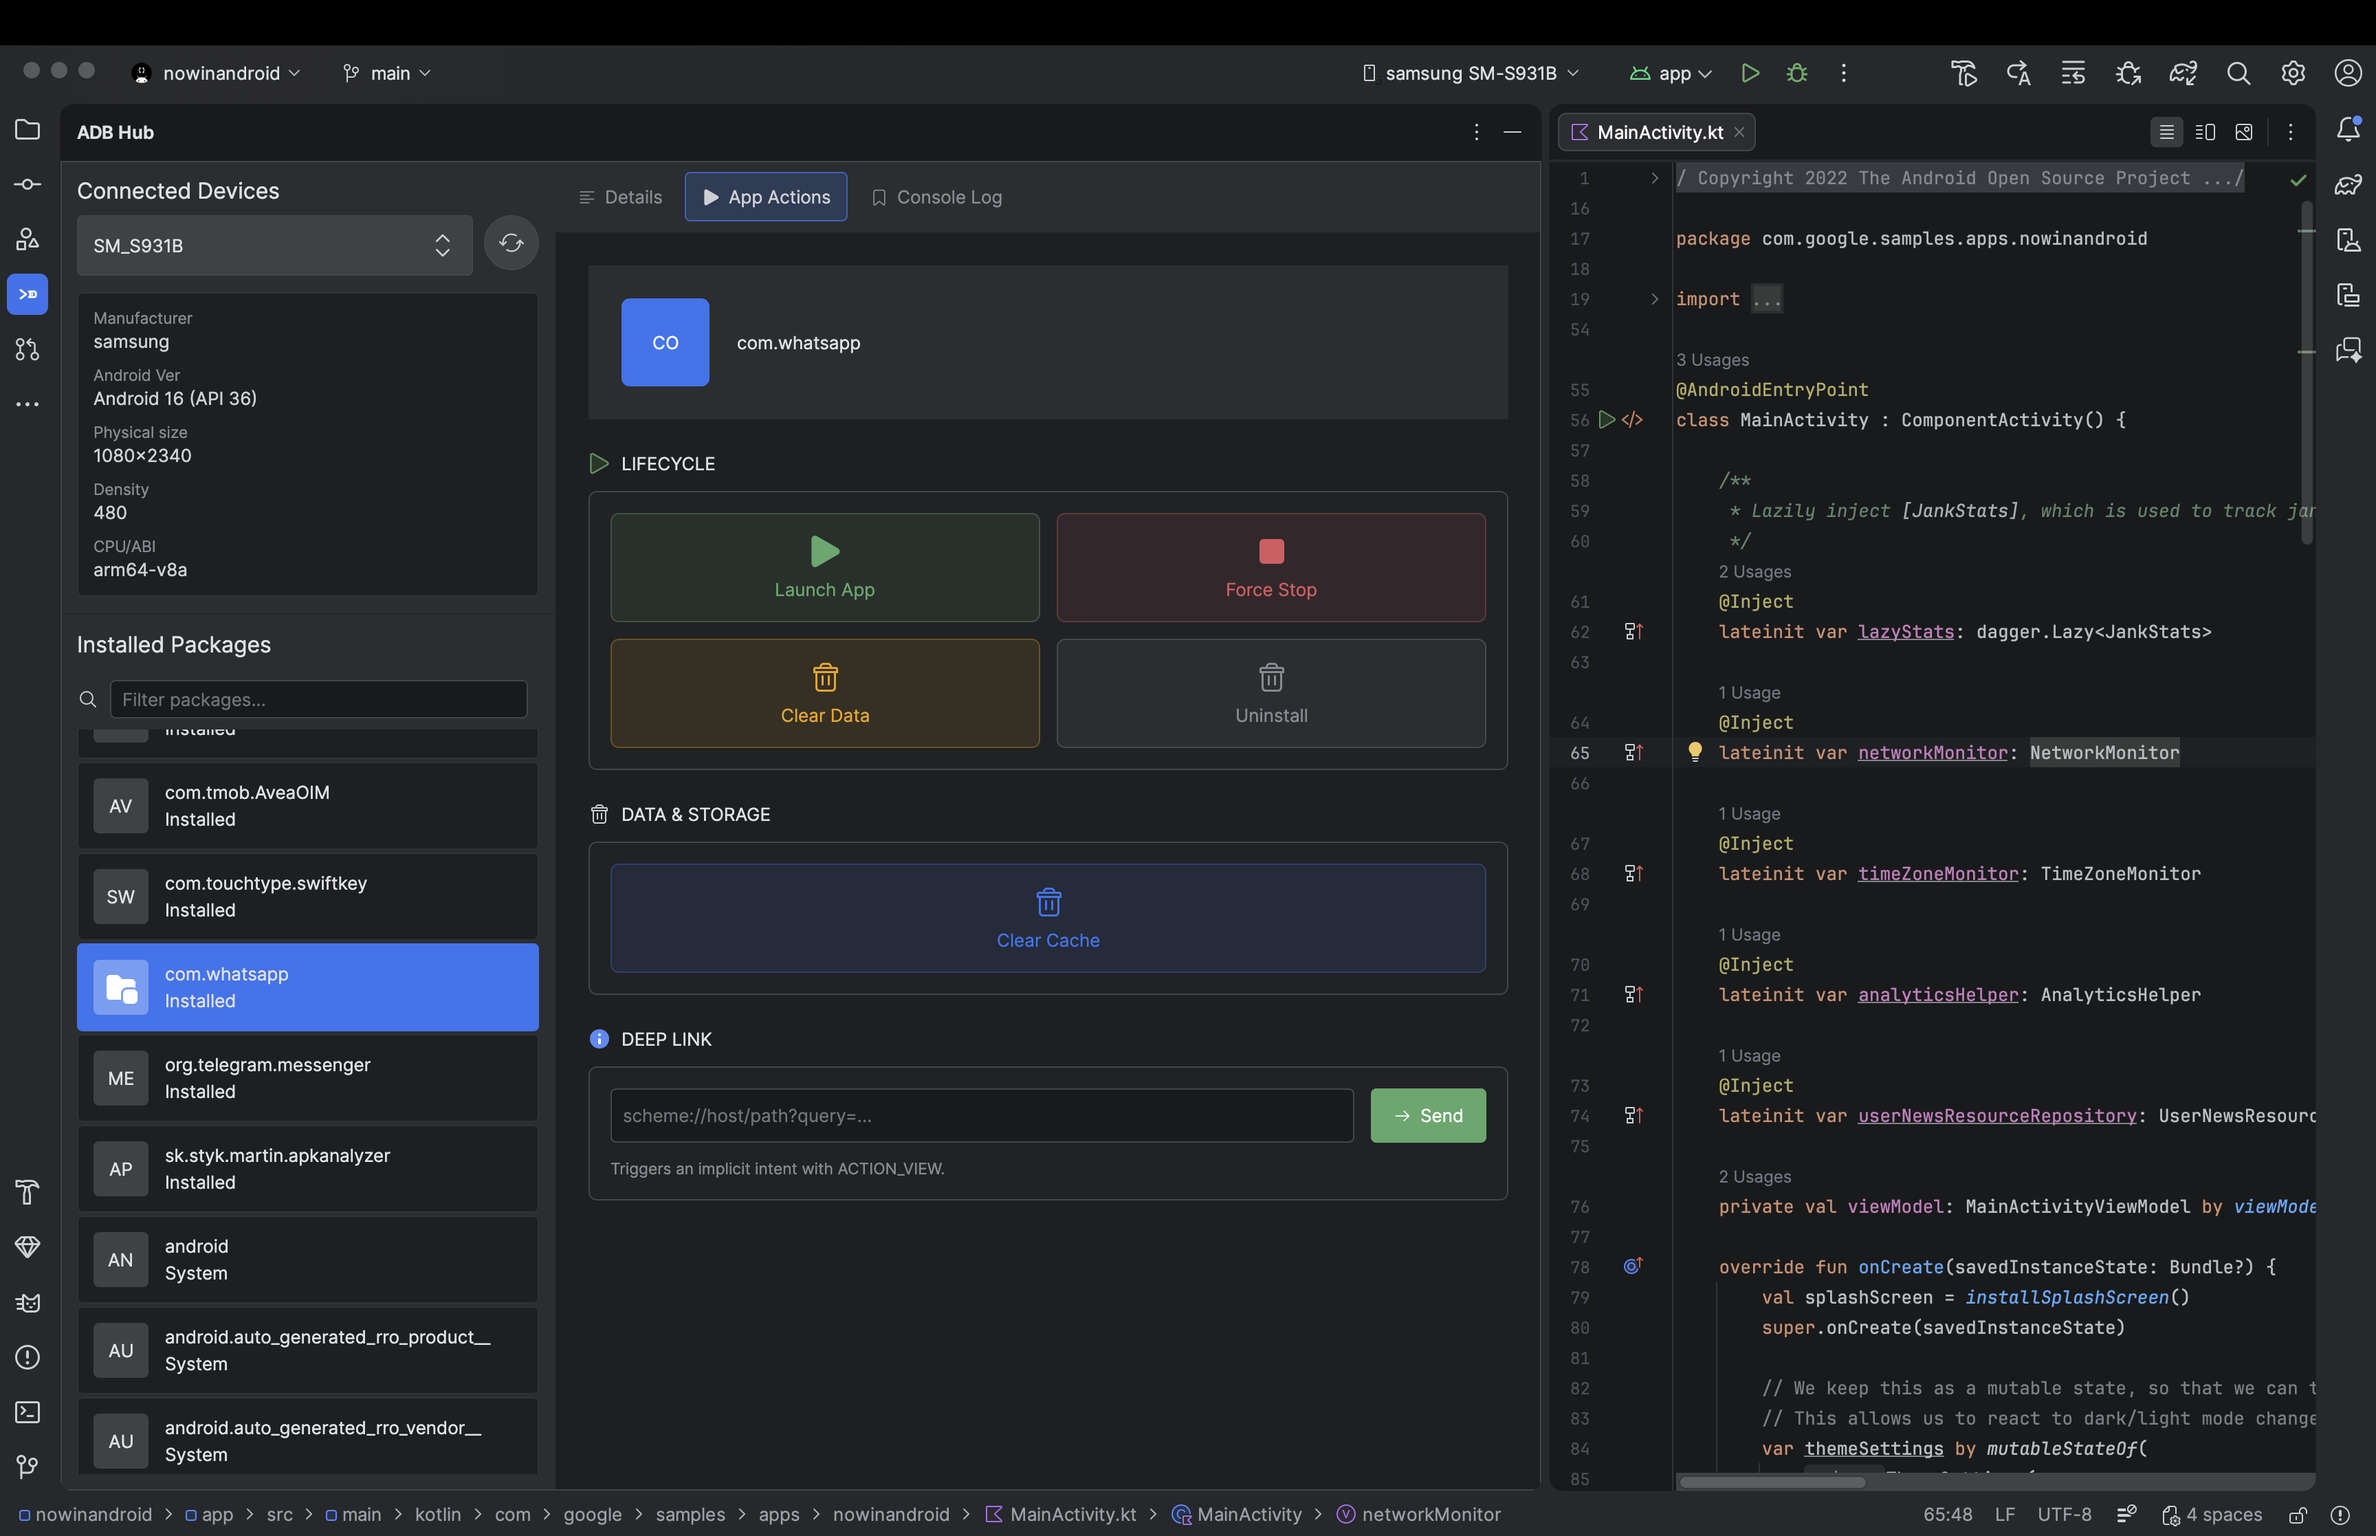
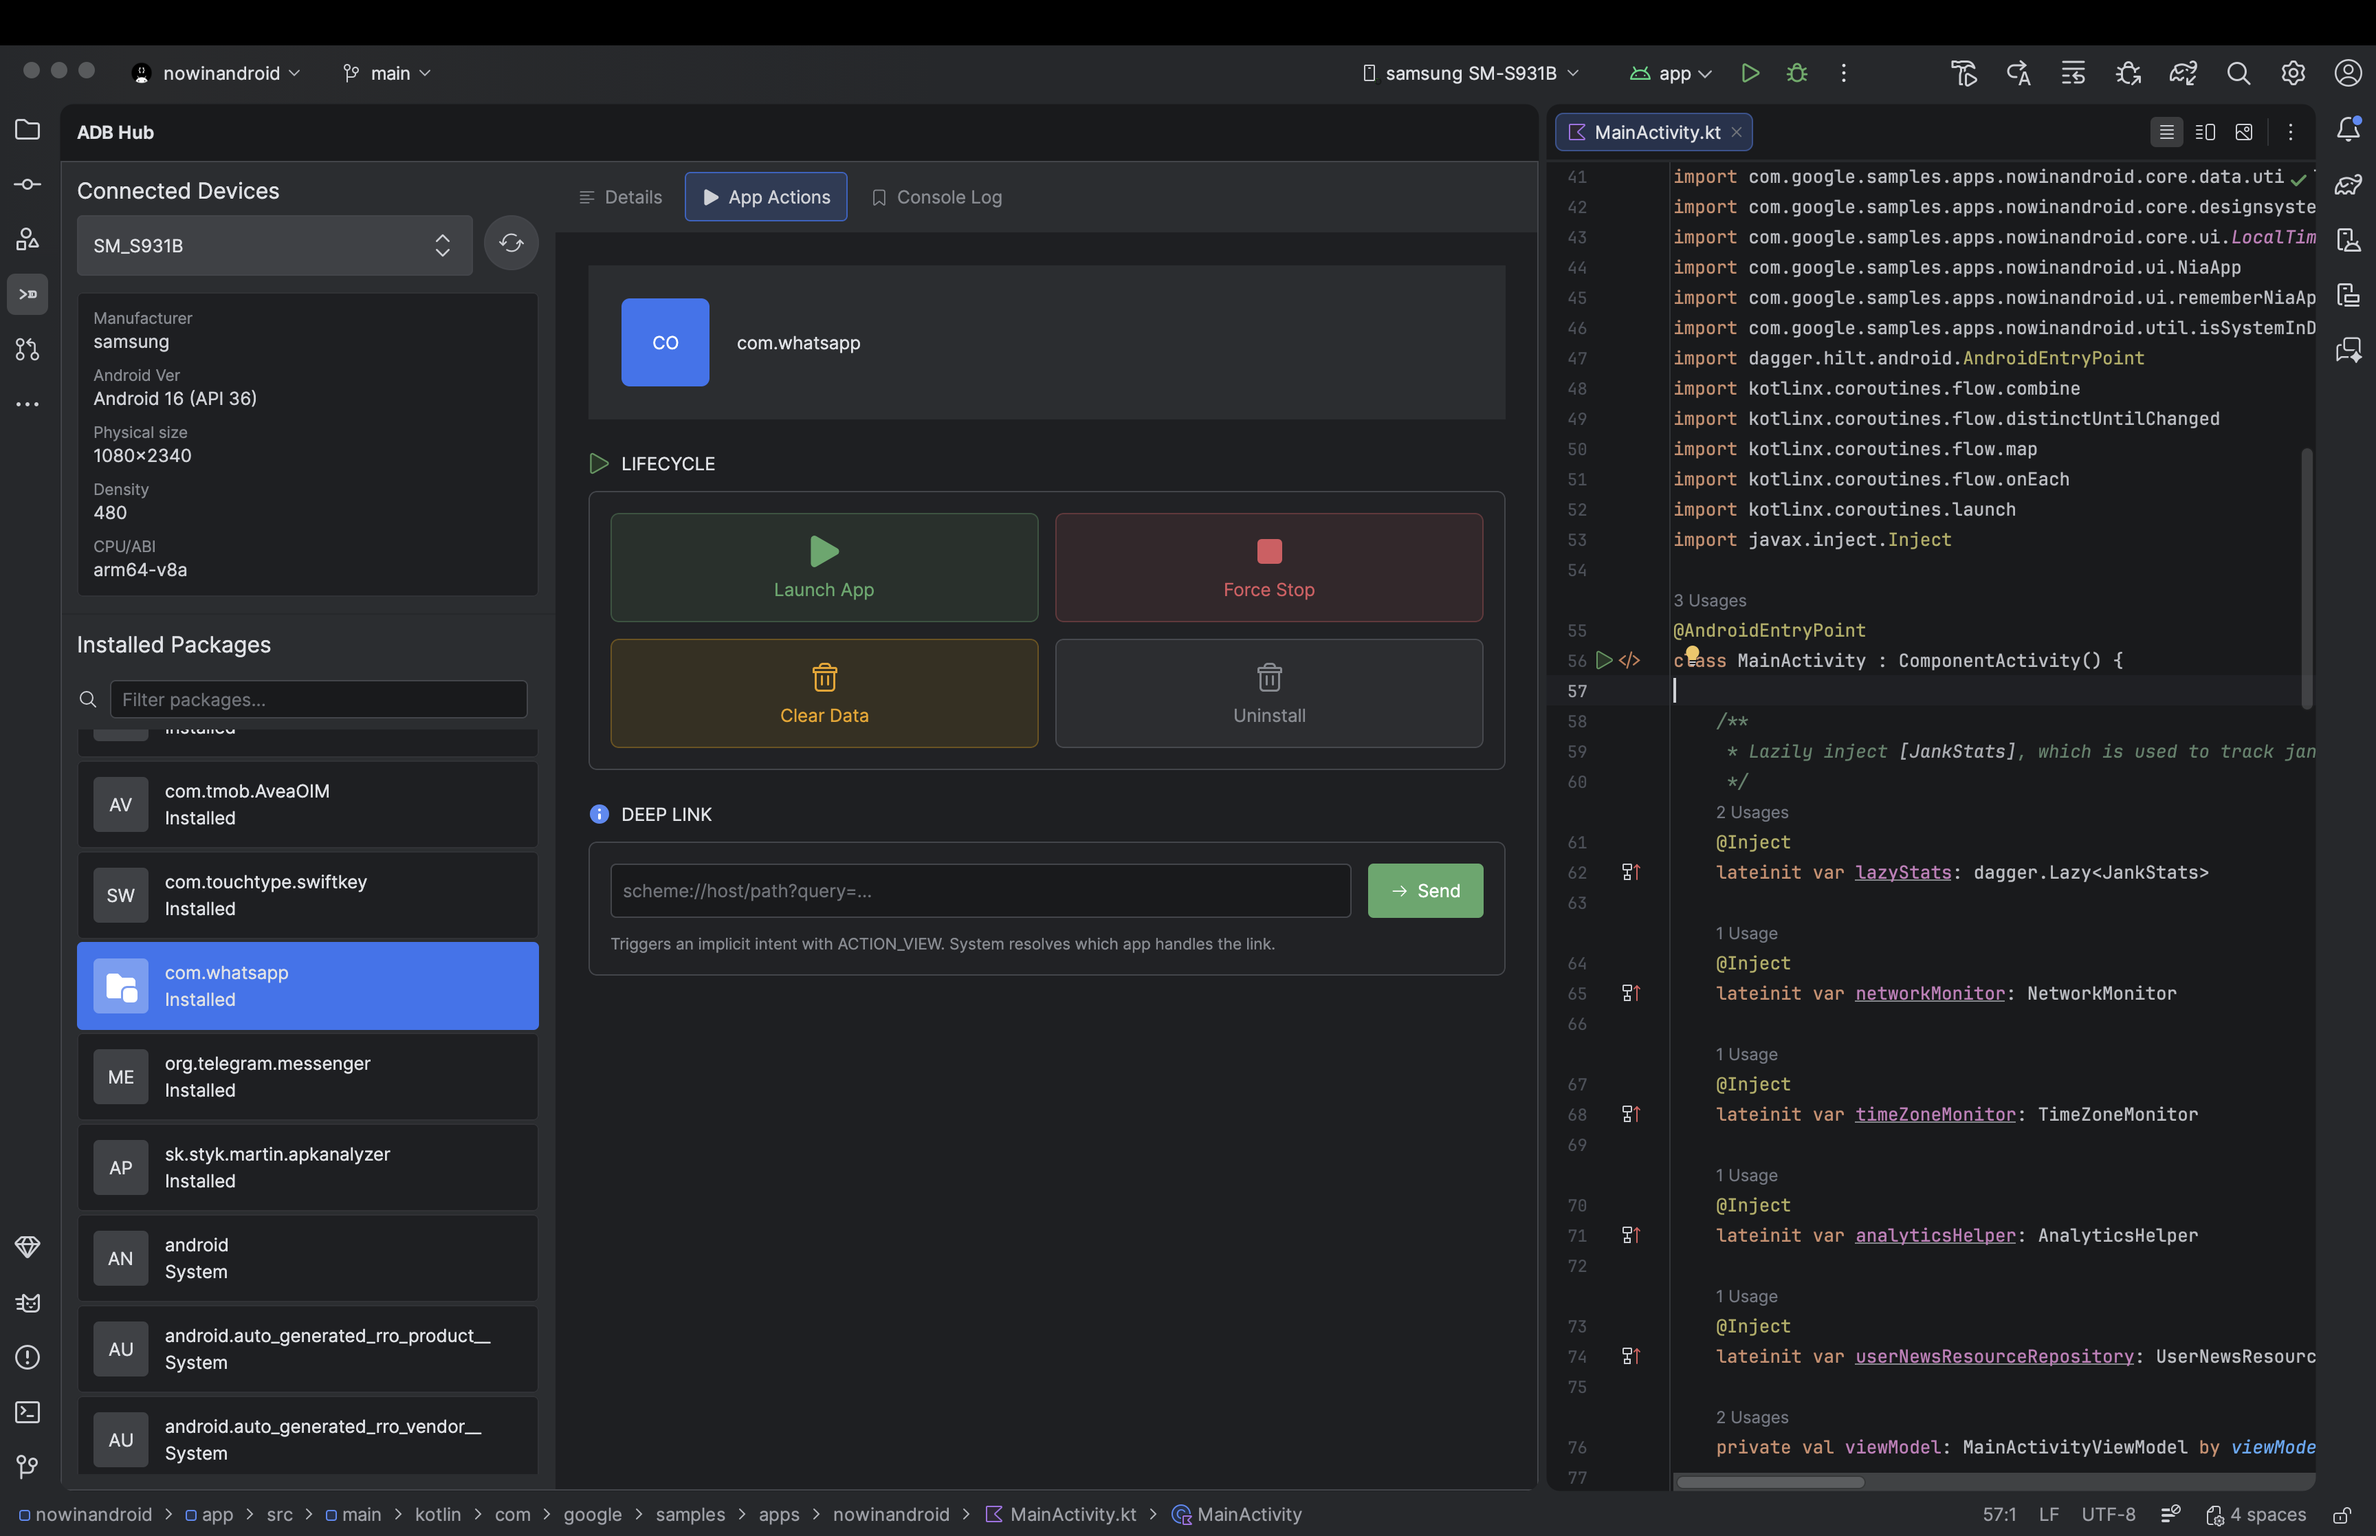
Increase plugin version to 0.3.0 (#38)

diff --git a/CHANGELOG.md b/CHANGELOG.md
@@ -2,6 +2,25 @@
 
 ## [Unreleased]
 
+## [0.3.0] - 2026-02-21
+
+### Changed
+
+- **Device Info** – Optimized to use single `getprop` call instead of 12 separate ADB round-trips
+- **Screen Info** – Combined `wm size` and `wm density` into one shell command
+- **Package Details** – Extract install path from `dumpsys` output, removed redundant `pm path` call
+- **UID Display** – Package UID now shown in details header (parsed from dumpsys)
+- **Launch App** – Reverted to monkey command for reliable app launching across devices
+- **Marketplace Link** – README badge now links to plugin page instead of search
+
+### Removed
+
+- **Clear Cache** – ADB has no command to clear only app cache; `pm clear` wipes both data and cache
+
+### Added
+
+- **Foojay Resolver** – Gradle toolchain convention plugin for JDK resolution
+
 ## [0.2.0] - 2026-02-18
 
 ### Changed
